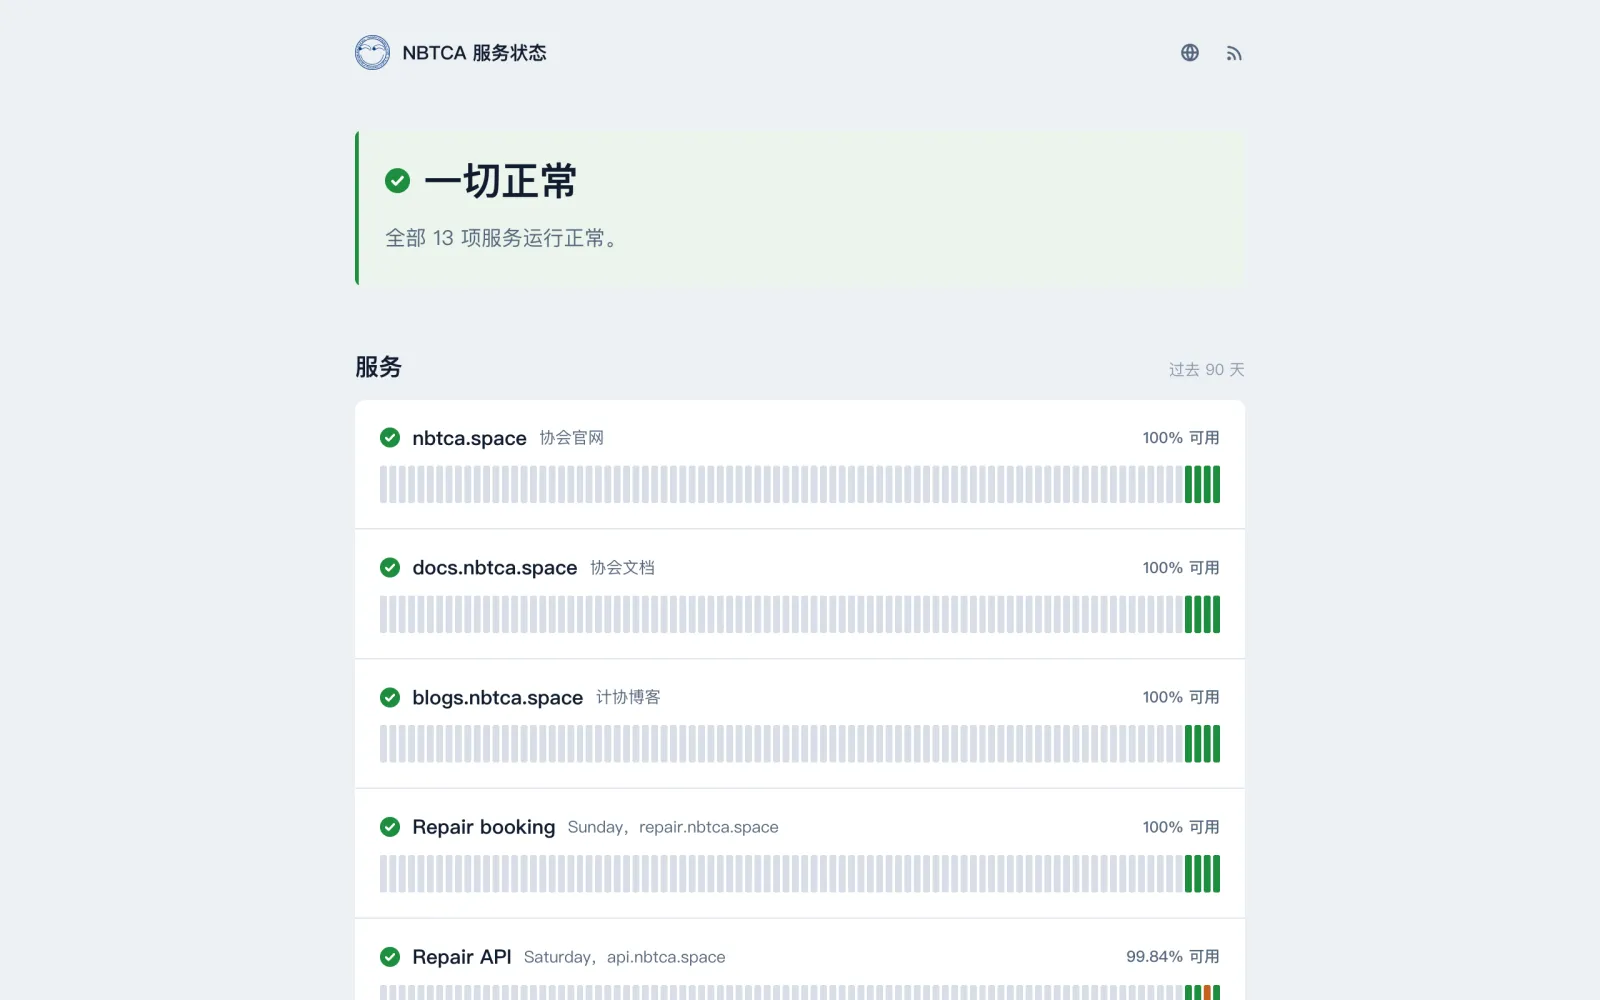
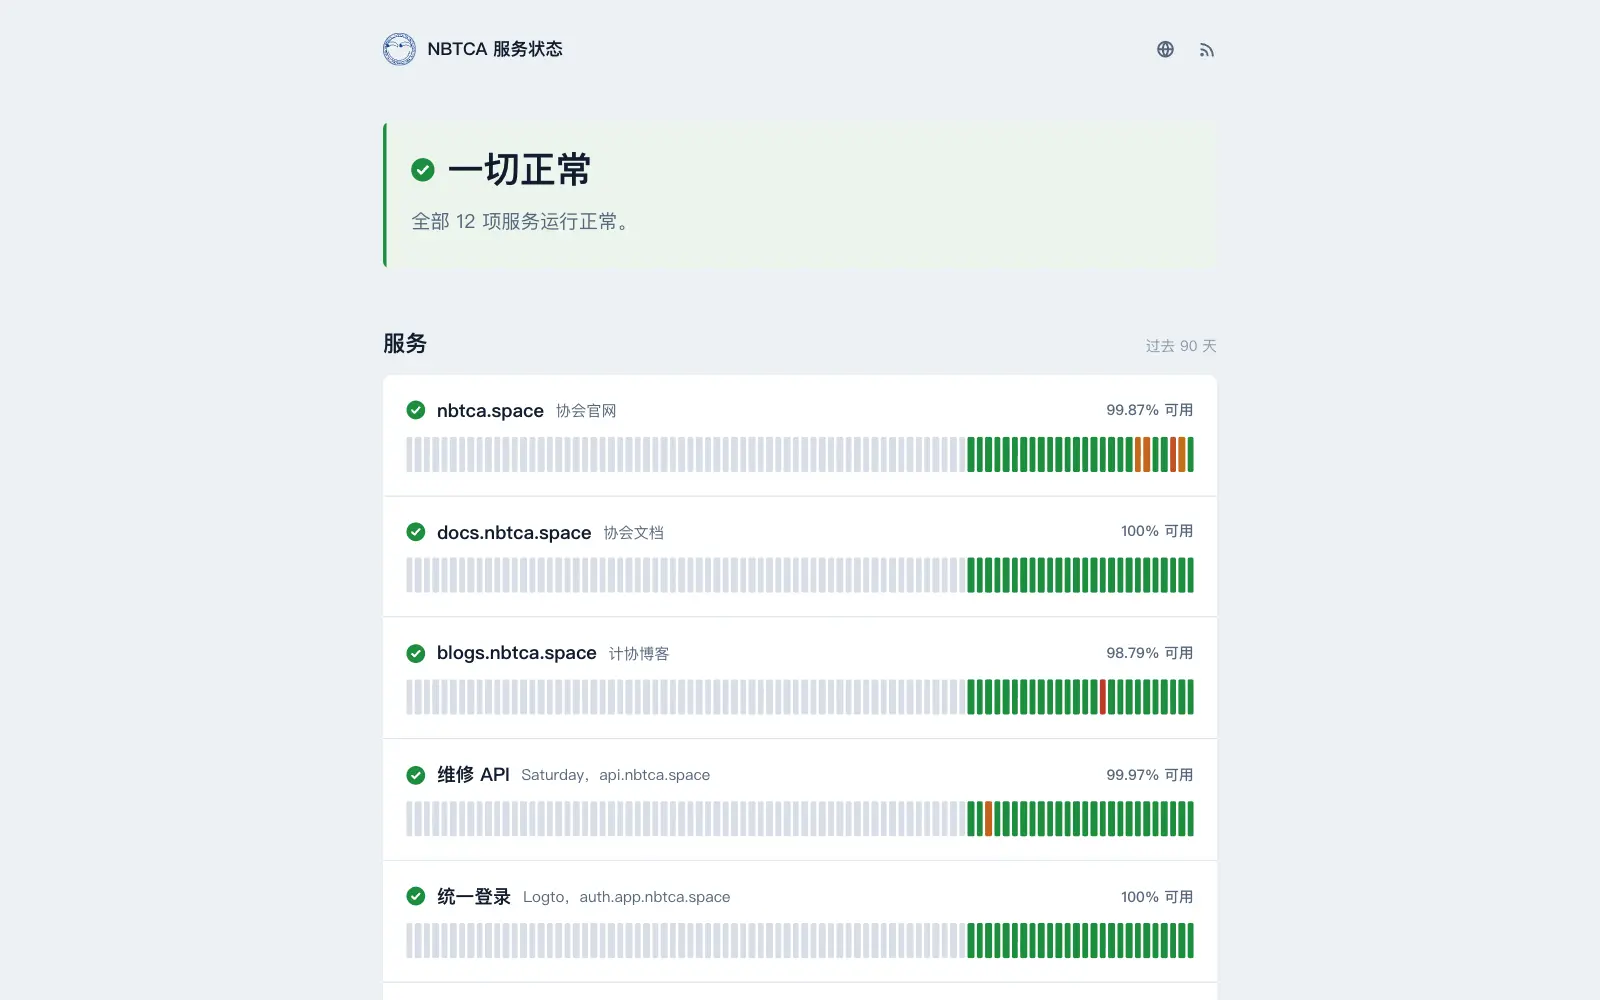
docs(heartbeat): match the page to the renamed services

diff --git a/concepts/heartbeat.md b/concepts/heartbeat.md
@@ -15,14 +15,14 @@ heartbeat 是 NBTCA 各项线上服务的状态页与可用性监控，部署在
   { label: '维护', value: 'm1ngsama' },
 ]" />
 
-<Figure src="./assets/project-heartbeat.webp" alt="状态页中文版：顶部绿色横幅写着“一切正常，全部 13 项服务运行正常”，下方逐项列出 nbtca.space、docs.nbtca.space、blogs.nbtca.space、维修预约与维修 API，每项右侧是可用率和一排代表每天状态的竖条" caption="每项服务一行，竖条是过去 90 天每天的状态，右侧是可用率。" date="2026-09" wide />
+<Figure src="./assets/project-heartbeat.webp" alt="状态页中文版：顶部绿色横幅写着“一切正常，全部 12 项服务运行正常”，下方逐项列出 nbtca.space、docs.nbtca.space、blogs.nbtca.space、维修 API 与统一登录，每项右侧是可用率和一排代表每天状态的竖条" caption="每项服务一行，竖条是过去 90 天每天的状态，右侧是可用率。" date="2026-10" wide />
 
 ## 做什么
 
 - **检查**：每分钟从 Cloudflare 的边缘节点检查一次；设计上还有一个部署在国内集群里的探针，从国内再测一遍；
 - **判定**：只看最近三次结果，所有地区都失败才算故障，部分地区失败算部分故障，响应超过 3 秒算缓慢；某个探针失联时直接跳过，不会误报成故障；
 - **展示**：每项服务保留 90 天的每日可用率，另有最近 60 分钟的曲线、各地区延迟和 TLS 证书到期时间；
-- **分组**：网站、维修、账号、应用、游戏五组面向所有人；消息与存储、平台、镜像三组是内部设施，折叠显示，不计入页面顶部的总体状态，但照样检查、照样告警；
+- **分组**：网站、维修、账号、应用、游戏五组面向所有人；消息与存储、平台、镜像代理三组是内部设施，旧版服务一组放着停止开发但仍在线的服务。这四组折叠显示，不计入页面顶部的总体状态，但照样检查、照样告警；
 - **公告**：故障和维护公告以 Markdown 文件写在仓库的 `incidents/` 目录，合并进 `main` 即发布；
 - **接口**：`GET /api/status` 返回页面上显示的同一份状态，服务状态变化时向配置好的通知地址推送告警。
 
@@ -47,14 +47,12 @@ npm run dev
 
 最常见的两类贡献都不用写业务代码：
 
-- **新增一项监控**：在 `monitors.ts` 里加一条。必填 `id`、`name`（服务名，英文）、`role`（背后是哪个项目、在哪个地址）和 `http` 或 `tcp`；`zh` 是 `role` 的中文版本；接口正常时不返回 2xx 的，用 `status` 写明期望的状态码；
+- **新增一项监控**：在 `monitors.ts` 里加一条。必填 `id`、`name`（服务名，英文）、`role`（背后是哪个项目、在哪个地址）和 `http` 或 `tcp`；`zh` 和 `roleZh` 分别是服务名和 `role` 的中文版本，项目名照原样保留；接口正常时不返回 2xx 的，用 `status` 写明期望的状态码；
 - **发布一条故障公告**：在 `incidents/` 下新建一个 Markdown 文件，写明标题、影响程度和受影响的服务，正文按时间记录“发现”“恢复”等进展，格式见仓库 README。
-
-其他适合上手的任务：日历订阅源的监控名写成了 “Timetable feed”，实际上它提供的是活动和校历，不是个人课表。
 
 需要先讨论的：让国内探针真正上线，并确认告警最终送到了哪里。
 
-〔**最后核对 2026-09**：国内探针尚未上报数据，页面上的检查目前只来自 Cloudflare 边缘；仓库里还没有发布过故障公告。〕
+〔**最后核对 2026-10**：国内探针尚未上报数据，页面上的检查目前只来自 Cloudflare 边缘；仓库里还没有发布过故障公告。〕
 
 维护者是 [m1ngsama](https://github.com/m1ngsama)。仓库地址：[github.com/nbtca/heartbeat](https://github.com/nbtca/heartbeat)。
 
